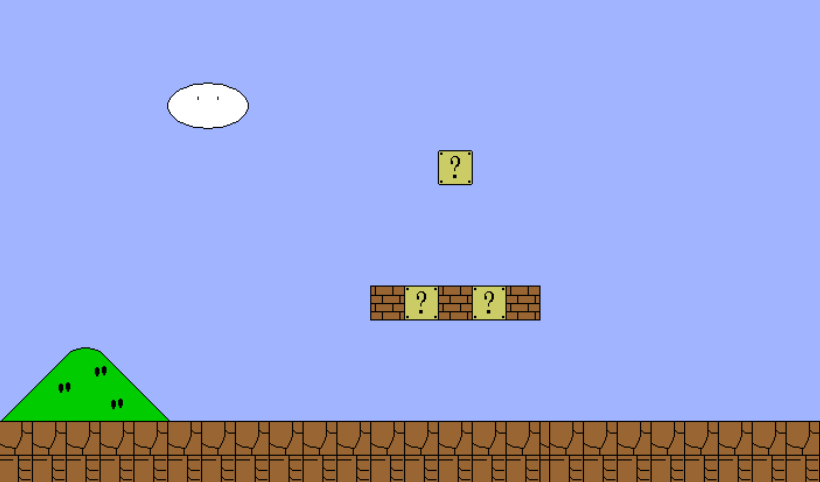
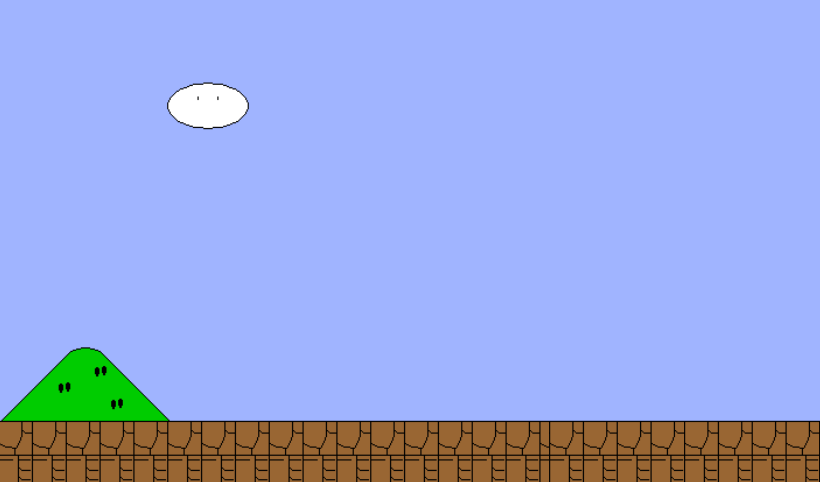
벽돌 충돌관련 업데이트 및 벽돌 생성 엔진 제작중..

Changed region(s): [[0.4268, 0.5913, 0.6707, 0.6846], [0.5183, 0.3112, 0.5793, 0.4046]]

diff --git a/mario.ver-diabloH/root/script.js b/mario.ver-diabloH/root/script.js
@@ -2,74 +2,111 @@ var lyanImg = new Image();
 lyanImg.src = "./img/lyan.png";
 var backImg = new Image();
 backImg.src = "./img/background.png";
-
+var wImg = new Image();
+wImg.src = "./img/wall.jpg";
 
 
 var lyan = {
   life : 99
 , img : lyanImg
 , lyanX : 50
-, lyanY : 331
-, width : 70
-, height : 90
+, lyanY : 370
+, width : 50
+, height : 60
 , jumpControl : true
+, rightMoving : true
+, leftMoving : true
 , jumpOn : false
 , jump : function(){
     if(this.jumpControl){
       this.jumpOn=true;
-      this.lyanY-=8;
+      this.lyanY-=5;
     }
   }
 }
 
 
-var map = {
-   wall1 : [370,540,284] // 가로 가로 세로
-,  wall2 : [438,473,149]
-,  trap1 : [165,250,106]
+
+var walls = [];
+
+function MakeWall(length, ptrn, x, y){
+//var baseLength = length;
+  var chk = length;
+  var patterns = ptrn; // true 일때 세로 false 일때 가로
+  var baseSize = 35;  // 벽돌의 width, height의 기본 값
+  var baseX = x;
+  var baseY = y;
+
+  var sizeXplus = 0;
+  var sizeYplus = 0;
+
+  while(chk>0){
+    var wall = {
+      pattern : patterns,               // true = 세로,  false = 가로
+      leftX   : baseX+sizeXplus,        // 좌측상단의 x축
+      rightX  : baseX+baseSize+sizeXplus, // 우측 상단 x축
+      downY   : baseY+sizeYplus,        // 상단 y축        100
+      onY     : baseY+sizeYplus-baseSize, // 하단 y축    65
+      dest    : false,
+      img     : wImg        // 기본 벽돌 이미지
+
+      //  size    : baseSize,   // 벽돌 기본 크기
+      //  length  : baseLength, // 벽돌을 몇칸 생성하는가
+      //  rightX  : baseX+(ptrn?baseSize:baseSize*length), // 우측 상단 x축
+    }
+
+    if(ptrn){
+      sizeYplus -= 35;
+    }else{
+      sizeXplus += 35;
+    }
+    walls.push(wall);
+    chk--;
+  } // while END
 }
 
 
+//MakeWall(10,false,300,200);
+
+MakeWall(5,false,450,400);
+MakeWall(5,true,250,300);
 
 
+function wall_walking(){
+  for(var i=0; i<walls.length; i++){
+      if( (lyan.lyanX >= walls[i].leftX-(lyan.width/2) && lyan.lyanX+(lyan.width/2) <= walls[i].rightX)
+       && (lyan.lyanY+lyan.height >= walls[i].onY && lyan.lyanY+lyan.height <= walls[i].onY+5 ) ){
+      lyan.jumpOn = false;
+      lyan.jumpControl = true;
+    }else if(lyan.lyanX+lyan.width > walls[i].leftX &&
+      lyan.lyanY >= walls[i].onY &&
+      lyan.lyanY <= walls[i].downY){
+      lyan.rightMoving=false;
+      console.log("오른쪽으로 갈 수 없음");
+      return false;
+    }else{
+      lyan.rightMoving=true;
+    }
 
-function wall(){
-  if( (lyan.lyanX >= map.wall1[0]-(lyan.width/2) && lyan.lyanX <= map.wall1[1]-(lyan.width/2) ) && (lyan.lyanY <= map.wall1[2]-lyan.height && lyan.lyanY >= map.wall1[2]-lyan.height-5) ){
-    lyan.jumpOn = false;
-  }else if( (lyan.lyanX >= map.wall2[0]-(lyan.width/2) && lyan.lyanX <= map.wall2[1]-(lyan.width/2) ) && (lyan.lyanY <= map.wall2[2]-lyan.height && lyan.lyanY >= map.wall2[2]-lyan.height-5) ){
-    lyan.jumpOn = false;
-  }else{
-    lyan.jumpOn = true;
+
   }
 }
-
-function wallDest(){
-
-  if( (lyan.lyanX >= map.wall1[0]-(lyan.width/2) && lyan.lyanX <= map.wall1[1]-(lyan.width/2) ) && lyan.lyanY <= map.wall1[2]+35 ){
-    lyan.jumpControl = false;
-    console.log("꽝꽝");
-  }else if( (lyan.lyanX >= map.wall2[0]-(lyan.width/2) && lyan.lyanX <= map.wall2[1]-(lyan.width/2) ) && lyan.lyanY <= map.wall2[2]+35   ){
-    lyan.jumpControl = false;
-    console.log("충돌");
-  }
-}
-
-// function trap(){
-//   if( (lyan.lyanX >= map.trap1[0]-(lyan.width/2) && lyan.lyanX <= map.trap1[1]-(lyan.width/2) ) &&  ( lyan.lyanY >= 315 && lyan.lyanY <= 320 ) ){
-//
-//
-//
-//   }
+// &&Iscollision(walls[i],lyan)
+// function Iscollision(wall,lyan){
+//   return wall.leftX<lyan.lyanX+lyan.width &&
+//   lyan.lyanX<wall.rightX &&
+//   wall.onY&&lyan.lyanY+lyan.height&&
+//   wall.downY&&lyan.lyanY;
 // }
 
 
 function realtime(){
-    rsetJump();
-    wallDest();
-    wall();
     jumpDown();
+    wall_walking();
     update();
-		draw_background();
+    rsetJump();
+	  draw_background();
+    draw_wall();
 		draw_player();
 
 }
@@ -79,7 +116,7 @@ function realtime(){
 
 function jumpDown(){
   if(lyan.jumpOn == true){
-    if(lyan.lyanY <= 332){
+    if(lyan.lyanY <= 360){
       lyan.lyanY +=3;
       console.log("조정중");
     }
@@ -87,16 +124,22 @@ function jumpDown(){
 }
 
 function rsetJump(){
-  if(lyan.lyanY <= 332){
+  if(lyan.lyanY <= 360){
     lyan.jumpControl = true;
   }
 }
 
-
+function draw_wall() {
+  for(var i=0; i<walls.length; i++){
+    ctx.beginPath();
+    ctx.drawImage(walls[i].img, walls[i].leftX, walls[i].onY, 35,35);
+    ctx.stroke();
+  }
+}
 
 
 function draw_background() {
-	//ctx.clearRect(0, 0, canvas.width, canvas.height); // 캔버스를 깔끔한 상태로 유지보수
+	ctx.clearRect(0, 0, canvas.width, canvas.height); // 캔버스를 깔끔한 상태로 유지보수
 	ctx.beginPath();
 	ctx.drawImage(backImg, 0, 0,820,482);
 	ctx.stroke();
@@ -110,17 +153,22 @@ function draw_player() {
 
 function update() {
       var press = false;
-      if (keyPressed[39]){
-        lyan.lyanX += 5;	press = true;
-      } // 좌
 
-      if (keyPressed[37]){
-        lyan.lyanX -= 5;	press = true;
-      } // 우
+      if(lyan.rightMoving){
+        if (keyPressed[39]){
+          lyan.lyanX += 5;	press = true;
+        } // 우
+      }
+
+      if(lyan.leftMoving){
+        if (keyPressed[37]){
+          lyan.lyanX -= 5;	press = true;
+        } // 좌
+      }
 
       if (keyPressed[32]){
         lyan.jump();
-      }else if(lyan.lyanY>=331){
+      }else if(lyan.lyanY>=481){
         lyan.jumpOn = false;
       } // 점프
 }

diff --git a/mario.ver-diabloH/mario.html b/mario.ver-diabloH/mario.html
@@ -23,7 +23,7 @@
     if (canvas == null || canvas.getContext == null)
       return;
     ctx = canvas.getContext("2d");
-
+    draw_wall();
     draw_background();
     draw_player();
   }
